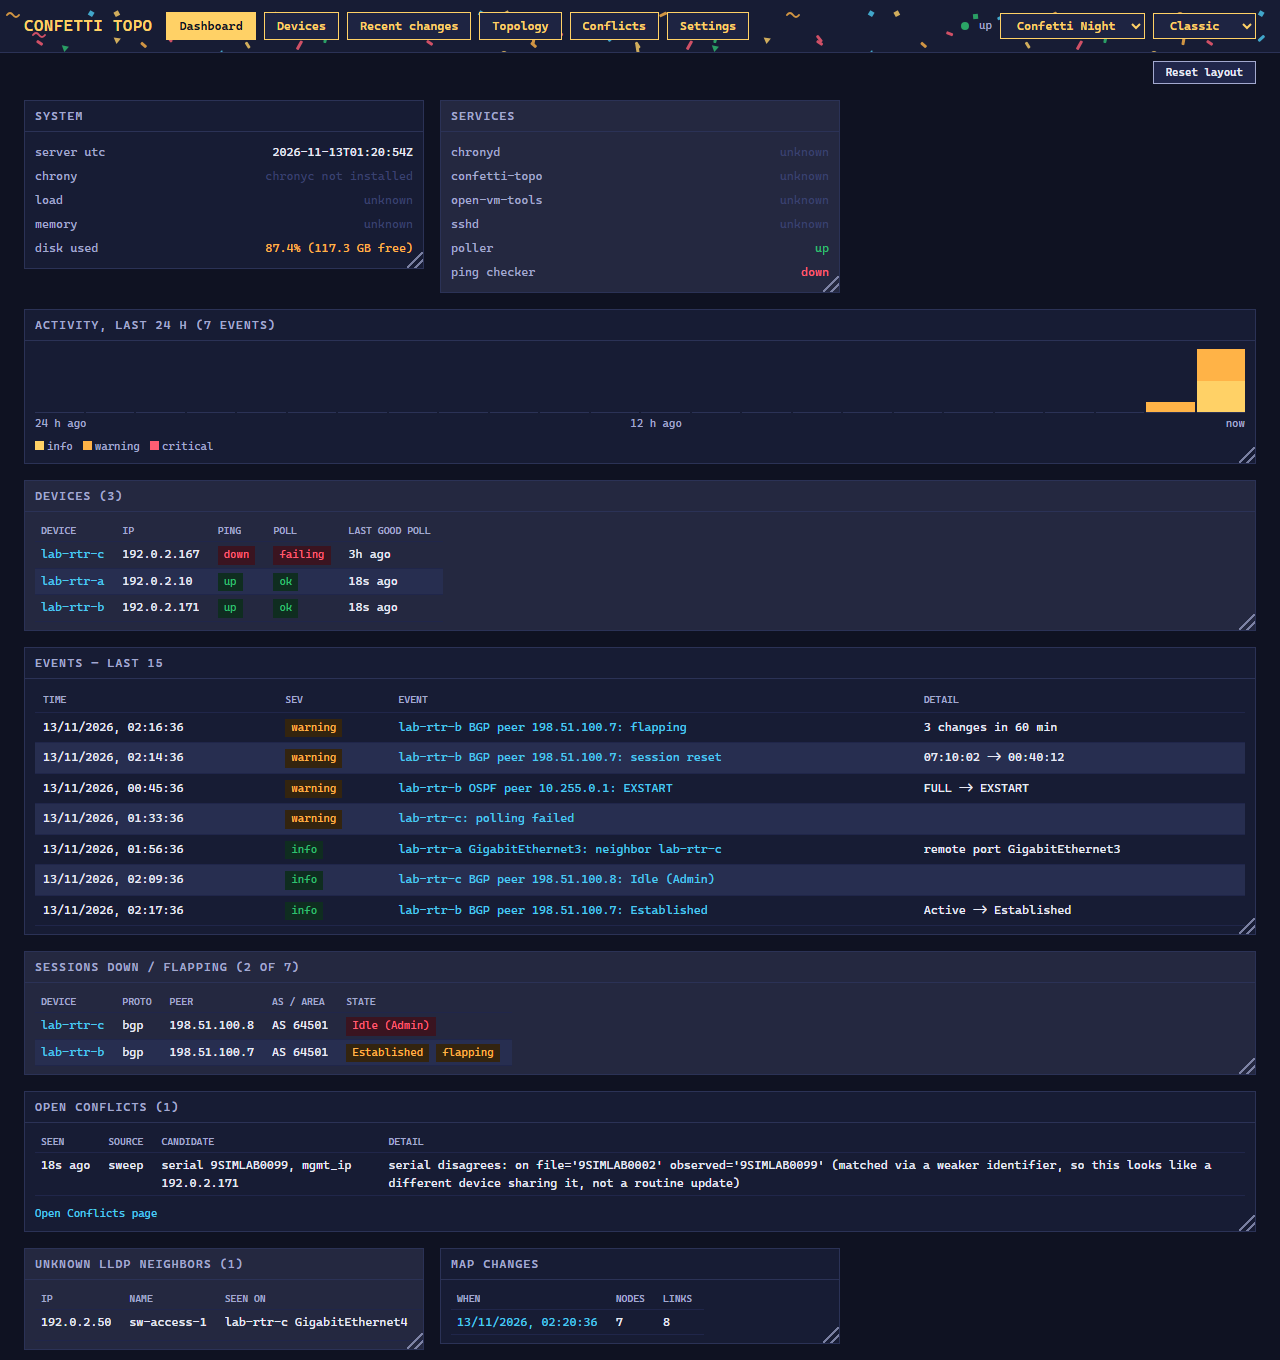
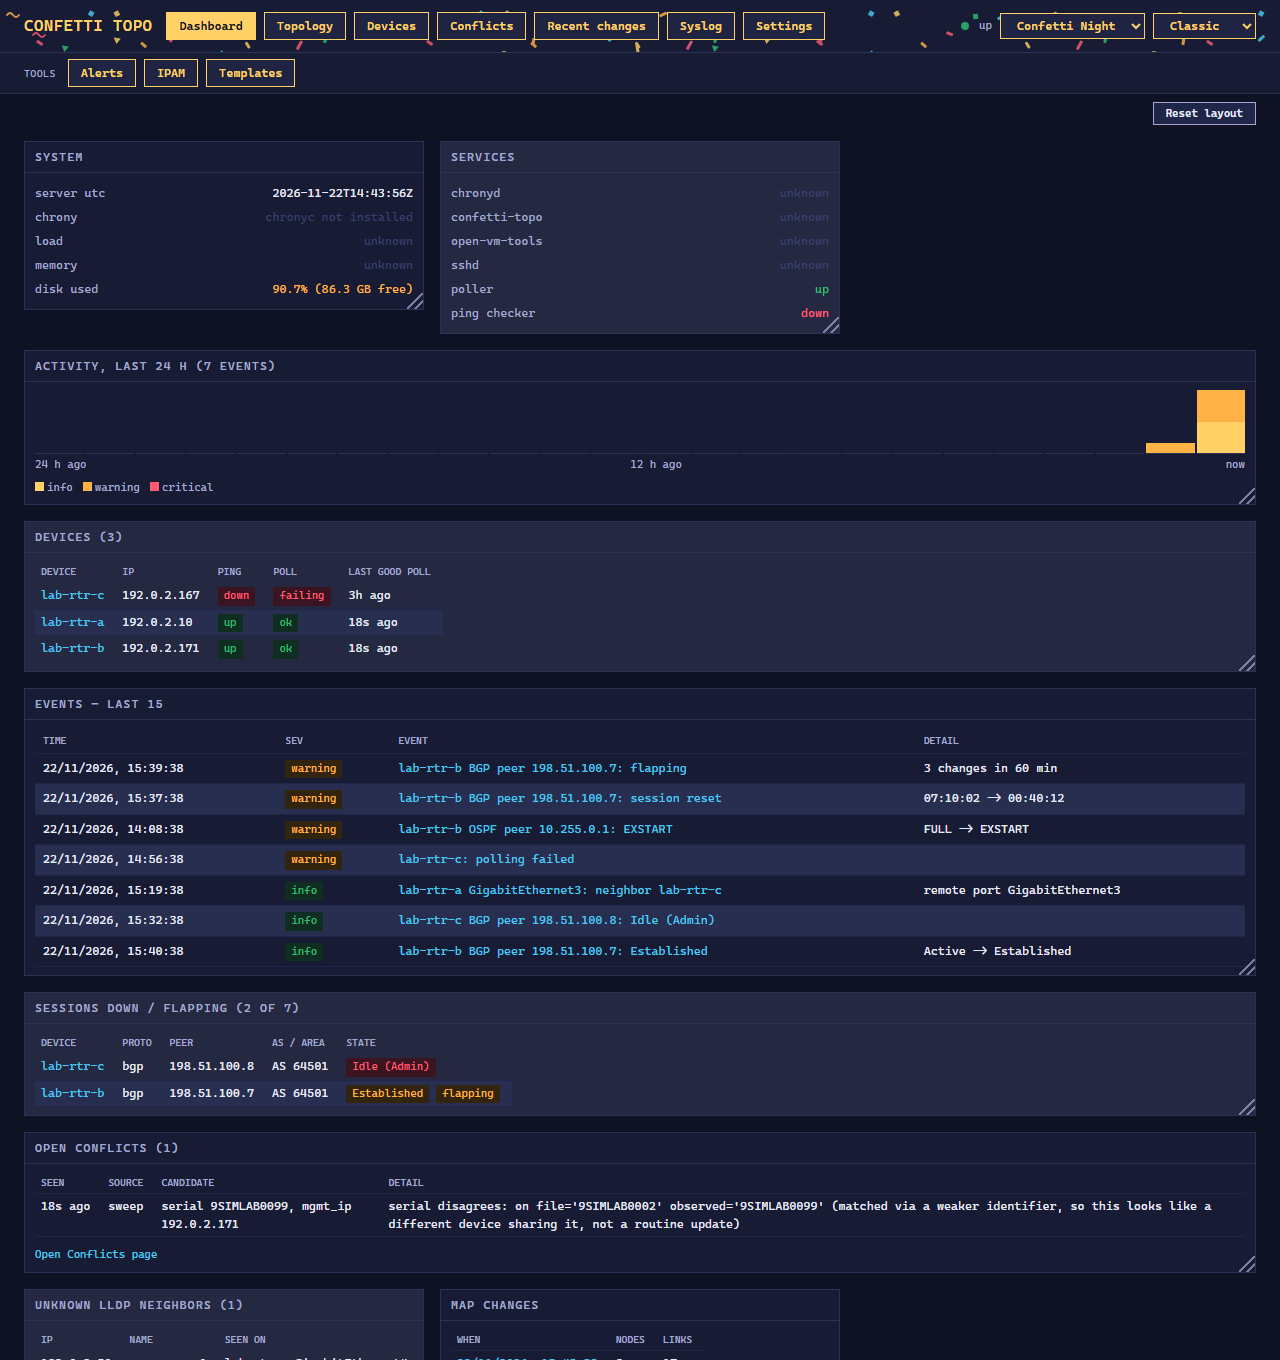
Menu order and Tools row; R51 database upgrade check; add-task skill, check-red-prover agent
- Menu: Dashboard, Topology, Devices, Conflicts, Recent changes, Syslog, Alerts, IPAM, Templates, Settings (last).
  Classic second row is now "Tools" (was "Butler"); .nav-row-butler/.butler-nav renamed.
- R51 / constraint 34: the oldest db.py in git builds an old database that init_db must upgrade in place.
- New skill confetti-topo-add-task, new agent check-red-prover; fixes to dashboard-ui-checker and confetti-topo-release.
- README images re-recorded.

diff --git a/topo/templates/base.html b/topo/templates/base.html
@@ -12,11 +12,11 @@
 </head>
 {# The page list lives here once. The current page is picked from the URL, so
    /devices/5 counts as Devices. #}
-{% set pages = [('/', 'Dashboard'), ('/devices', 'Devices'), ('/changes', 'Recent changes'), ('/syslog', 'Syslog'), ('/topology', 'Topology'), ('/conflicts', 'Conflicts'), ('/settings', 'Settings')] %}
-{# The pages that came from confetti-butler. Classic shows them on their own row under the topo row; every other
-   layout lists them with the rest (all_pages). #}
-{% set butler_pages = [('/ipam', 'IPAM'), ('/templates', 'Templates'), ('/alerts', 'Alerts')] %}
-{% set all_pages = pages + butler_pages %}
+{% set main_pages = [('/', 'Dashboard'), ('/topology', 'Topology'), ('/devices', 'Devices'), ('/conflicts', 'Conflicts'), ('/changes', 'Recent changes'), ('/syslog', 'Syslog')] %}
+{# Alerts, IPAM and Templates: Classic shows them on their own row (Tools) under the first row; every other layout lists
+   them with the rest. Settings is always last (all_pages). #}
+{% set tools_pages = [('/alerts', 'Alerts'), ('/ipam', 'IPAM'), ('/templates', 'Templates')] %}
+{% set all_pages = main_pages + tools_pages + [('/settings', 'Settings')] %}
 {% set here = '/' if request.path == '/' else '/' + request.path.strip('/').split('/')[0] %}
 <body class="{% block body_class %}{% endblock %}">
 
@@ -33,13 +33,9 @@
     <div class="header-left">
         <h1>CONFETTI TOPO</h1>
         <span class="page-title" id="page-title">{% block page_title %}{{ self.title() }}{% endblock %}</span>
-        {% for path, label in pages %}
-        {% if path == here %}<span class="btn-nav-current">{{ label }}</span>
-        {% else %}<a href="{{ path }}" class="btn-nav">{{ label }}</a>{% endif %}
-        {% endfor %}
-        {% for path, label in butler_pages %}
-        {% if path == here %}<span class="btn-nav-current butler-nav">{{ label }}</span>
-        {% else %}<a href="{{ path }}" class="btn-nav butler-nav">{{ label }}</a>{% endif %}
+        {% for path, label in all_pages %}{% set tool = (path, label) in tools_pages %}
+        {% if path == here %}<span class="btn-nav-current{% if tool %} tools-nav{% endif %}">{{ label }}</span>
+        {% else %}<a href="{{ path }}" class="btn-nav{% if tool %} tools-nav{% endif %}">{{ label }}</a>{% endif %}
         {% endfor %}
     </div>
     <div class="status">
@@ -51,10 +47,10 @@
     </div>
 </div>
 
-<!-- Classic layout only: the pages from confetti-butler on a second row. Hidden in the other layouts, which list them in the header or menu. -->
-<div class="nav-row-butler" aria-label="Butler pages">
-    <span class="nav-row-label">Butler</span>
-    {% for path, label in butler_pages %}
+<!-- Classic layout only: Alerts, IPAM and Templates on a second row. Hidden in the other layouts, which list them in the header or menu. -->
+<div class="nav-row-tools" aria-label="Tools pages">
+    <span class="nav-row-label">Tools</span>
+    {% for path, label in tools_pages %}
     {% if path == here %}<span class="btn-nav-current">{{ label }}</span>
     {% else %}<a href="{{ path }}" class="btn-nav">{{ label }}</a>{% endif %}
     {% endfor %}

diff --git a/topo/static/layout.css b/topo/static/layout.css
@@ -133,15 +133,15 @@ body.full-height .page { flex: 1 1 auto; min-height: 0; display: flex; flex-dire
 .page-footer .btn-small { margin: 0 3px; }
 .side-nav, .kpi-row, .taskbar { display: none; }
 
-/* The pages from confetti-butler: a second row under the header in Classic (no data-layout), where the header's own
+/* Alerts, IPAM and Templates: a second row under the header in Classic (no data-layout), where the header's own
    copies are hidden. Every other layout hides the row and shows them with the rest of its page buttons. */
-.nav-row-butler { display: none; }
-:root:not([data-layout]) .nav-row-butler {
+.nav-row-tools { display: none; }
+:root:not([data-layout]) .nav-row-tools {
     display: flex; align-items: center; gap: 8px; flex-wrap: wrap;
     background: var(--bg-card); border-bottom: 1px solid var(--border);
     padding: 6px 24px;
 }
-:root:not([data-layout]) .header-left .butler-nav { display: none; }
+:root:not([data-layout]) .header-left .tools-nav { display: none; }
 .nav-row-label { color: var(--text-dim); font-size: 10px; text-transform: uppercase; letter-spacing: 0.5px; margin-right: 4px; }
 
 /* Shared bits */

diff --git a/dev/regress.py b/dev/regress.py
@@ -1694,6 +1694,49 @@ def _():
     return p
 
 
+@check("R51", "an existing database upgrades in place: the oldest schema in git gets every table and column, keeps its rows, and init_db twice is harmless")
+def _():
+    p = []
+    if not shutil.which("git"):
+        raise Skip("git not found")
+    first = subprocess.run(["git", "log", "--diff-filter=A", "--format=%H", "--", "topo/app/db.py"],
+                           capture_output=True, text=True).stdout.split()
+    if not first:
+        raise Skip("no git history for topo/app/db.py")
+    old = subprocess.run(["git", "show", first[-1] + ":topo/app/db.py"], capture_output=True, text=True).stdout
+    m = re.search(r'executescript\("""(.*?)"""\)', old, re.S)
+    need(m is not None, "cannot find the CREATE script in the oldest db.py (%s)" % first[-1][:7], p)
+    if not m:
+        return p
+    mods, fresh = fresh_db()                       # the schema the current code makes
+    def schema(c):
+        out = {}
+        for (t,) in c.execute("SELECT name FROM sqlite_master WHERE type='table' AND name NOT LIKE 'sqlite_%'"):
+            out[t] = {r[1] for r in c.execute("PRAGMA table_info(%s)" % t)}
+        return out
+    want = schema(fresh)
+    fresh.close()
+    path = os.path.join(TMP, "upgrade.db")
+    old_db = sqlite3.connect(path)
+    old_db.executescript(m.group(1))
+    old_db.execute("INSERT INTO devices (key, hostname, mgmt_ip, first_seen, last_seen) VALUES ('mgmt:192.0.2.1', 'old-rtr', '192.0.2.1', '2000-01-01 00:00:00', '2000-01-01 00:00:00')")
+    old_db.commit()
+    old_db.close()
+    mods["config"].DB_PATH = path
+    mods["db"].init_db()
+    mods["db"].init_db()                           # twice: must be harmless
+    c = mods["db"].connect()
+    have = schema(c)
+    for t, cols in sorted(want.items()):
+        need(t in have, "table %s missing after the upgrade" % t, p)
+        if t in have:
+            need(cols <= have[t], "%s: columns missing after the upgrade: %s" % (t, sorted(cols - have[t])), p)
+    row = c.execute("SELECT hostname FROM devices WHERE key='mgmt:192.0.2.1'").fetchone()
+    need(row is not None and row[0] == "old-rtr", "the device row did not survive the upgrade", p)
+    c.close()
+    return p
+
+
 # ============================================================ live tier
 
 @check("R32", "routes: real-output fixtures parse, an empty table deletes nothing, one summary event per changed poll, none on baseline")

diff --git a/CLAUDE.md b/CLAUDE.md
@@ -219,9 +219,9 @@ These came over from butler on 2026-11-21 as the same code, `BUTLER_*` renamed t
 - **vCenter import** (`POST /api/discover/vcenter`, `collectors/vcenter.py`): inventory only, through `identity.ingest`. Never tested
   against a real vCenter (as in butler); it has no page, only the API.
 
-On the **Classic** layout the pages that came from butler (IPAM, Templates, Alerts) are a second row under the header
-(`.nav-row-butler` in `base.html`, shown only while no `data-layout` is set); the other layouts list them with the rest
-(`all_pages` = `pages` + `butler_pages` in `base.html`).
+Menu order (one list in `base.html`, `all_pages`): Dashboard, Topology, Devices, Conflicts, Recent changes, Syslog, Alerts, IPAM, Templates,
+Settings (last). On the **Classic** layout Alerts, IPAM and Templates are a second row labelled Tools (`.nav-row-tools`, shown only while no
+`data-layout` is set); the other layouts list them with the rest. The MS-DOS Go menu hotkeys are the positions in this list.
 
 ### Topology history
 
@@ -576,6 +576,9 @@ confetti-butler. Keep the three in step; `confetti-interop-checker` reports drif
     `config_drift` / `config_compliant` are events only on a change between the two, not on the first evaluation. Checked by R49.
 33. **Interface error history is sampled on change, and a counter reset adds nothing.** `interface_stats` gets a row when the counters change plus an
     hourly heartbeat; `ssh.growth` ignores a decrease (a reload). Checked by R50.
+34. **A deployed database upgrades in place.** `db.init_db` runs on every start over the existing file: `CREATE TABLE IF NOT EXISTS` never adds a
+    column to an existing table, so every new column needs its own `PRAGMA table_info` + `ALTER TABLE ADD COLUMN` (with a default if `NOT NULL`).
+    Nothing may drop or rewrite rows, and a second run changes nothing. Checked by R51 (the oldest `db.py` in git builds the old schema).
 
 ## Regression gate
 
@@ -588,7 +591,7 @@ container files and the BGP `Idle (Admin)` parse found on a real 15.4 router; `R
 (not Dropbear) setup; `R28` the credential order (device > Settings > env), that no GET returns a secret and
 that a bulk apply is all-or-nothing; `R29` the right-click menus (shared `static/ctxmenu.js`, quote-safe `data-*`, scripts parse); `R30` (constraint 15)
 the PAN-OS XML API: real-output fixtures, read-only `<show>` ops, secrets out of URLs, the poller's transport; `R31` (constraint 16) the optional LLDP chassis/name matching and its settings API; `R38` (constraint 23) the Default and Connected layers; `R37` (constraint 22) BGP flap detection; `R36` (constraint 21) the other Confetti projects' URLs; `R35` (constraint 20) topology history; `R34` (constraint 19) the VLAN task; `R33` (constraint 18) the optional access token; `R32` (constraint 17) the routes task: fixtures, empty table keeps rows, one event per changed poll; `R39` is the ruff `F` lint over `topo/` and `dev/` (not a constraint check); `R40` (constraint 24) the shared syslog parser and insert rule, `R40-sync` that `syslog_core.py`, `syslog_pull.py` and `syslog_cases.json` are byte-identical in the three repos (`NOT RUN` if a sibling is not next to this repo); `R41` (constraint 25) the syslog poll trigger; `R42` (constraint 26) the syslog pull; `R43`..`R50` (constraints 27..33) the checks that came with the butler merge: template sandbox, the open `/configs/` pull, config backups,
-alert matching (`R46`) and delivery (`R47`), SNMP, drift and interface error history; the next constraint (34) takes `R51`. Output is one line per check
+alert matching (`R46`) and delivery (`R47`), SNMP, drift and interface error history; `R51` (constraint 34) the in-place upgrade of an old database; the next constraint (35) takes `R52`. Output is one line per check
 and a verdict: `CLEAR`, `CLEAR WITH GAPS` (something not run) or `BLOCKED`. The unit tier imports the app, so
 it needs the app's own Python packages (else those checks are `NOT RUN`). Each check must be proven red by
 reverting its fix in a scratch copy. Adding a constraint means adding its check with the same number; the

diff --git a/.claude/skills/confetti-topo-add-task/SKILL.md b/.claude/skills/confetti-topo-add-task/SKILL.md
@@ -1,0 +1,42 @@
+---
+name: confetti-topo-add-task
+description: Add a new poll task to confetti-topo (a new show command whose output is stored, for example another switch table) - registry, parser, apply step, schema, events, API, device page, fixture, regression checks, docs. Use when asked to poll or store something new from a device. A new vendor is the add-platform skill.
+origin: confetti-topo
+---
+
+# Adding a poll task
+
+Model: the `stp` task (commit "Spanning tree summary on switches"). Read `_apply_stp` in `topo/app/collectors/ssh.py` first. Names below are
+the ones to grep for, not line numbers.
+
+1. **Real output first** (constraint 3). Capture the command from a real device into `dev/samples/<platform>_<task>.txt`, placeholders only
+   (`dev/samples/README.md`). Do not write a parser from documentation.
+2. **Registry** `topo/app/platforms.py`: the command in `IOS["commands"]`, the parser in `IOS["parsers"]`. A switch-only task also goes in
+   `SWITCH_TASKS` (the same file); then `ssh.run_tasks` skips it for a router. `ssh.TASKS` follows from the registry. PAN-OS and SNMP keep
+   their own task lists; do not add the task there unless the platform has it.
+3. **Parser** `topo/app/parsers/ios.py`, pure regex. An error text (`%`, `Invalid input`) must parse to an empty result.
+4. **Apply step** `ssh.py`: a branch in `apply_result` and a `_apply_<task>(conn, device_id, parsed, now)`.
+   - Delete rows not seen **only on a successful answer** (constraint 14). Decide what an empty parse means: a parse failure (delete nothing, as
+     `interfaces`, `vlans`, `mac`) or a real answer (clear, as `lldp`, `trunks`).
+   - `_is_cli_error` already fails a `SWITCH_TASKS` task on `%`; a task outside that list needs its own check.
+   - Events: `events.emit` inside the same transaction, never commit, and guard with `events.is_baseline(conn, device_id, "<task>")`
+     (constraint 11). Add the kind to `events.describe` (type / change / item / before / after) or the Recent changes page shows it raw.
+5. **Schema** `topo/app/db.py`: `CREATE TABLE IF NOT EXISTS` in the script, **and** an `ALTER TABLE ... ADD COLUMN` block for any column added to
+   an existing table (constraint 34, R51). A `NOT NULL` column needs a default. Give `device_id` `REFERENCES devices(id) ON DELETE CASCADE`
+   (as `stp` does): a device delete and a merge then clean it up. `identity.merge` copies only the tables in its list; poll-derived tables
+   like `stp` are not in it, and the survivor's next poll refills them. Add a table there only if it holds operator data.
+6. **API and page**: `GET /api/<name>?device_id=N` in `app/app.py` (`/api/stp` is the shape), a box on `templates/device.html` hidden until it has
+   rows. Read `confetti-topo-ui` before editing the template. If a value is shown from a secret-ish field, mask it (constraint 31 style).
+7. **Mock lab**: add rows to `topo/scripts/seed_mock_lab.py` or the new box has no data in the README images.
+8. **Regression** `dev/regress.py`:
+   - **R15** compares CLAUDE.md's "Per device, N tasks" and "All N tasks" sentences to `len(ssh.TASKS)` and wants each task name in backticks in
+     the per-device sentence. Its number-word table (`words`) stops at "twelve": a 13th task needs "thirteen" added there, or R15 fails for no
+     obvious reason.
+   - **R19** and **R34** hard-code the IOS task list and the switch-only list; extend them. R34 is the place for fixture parsing, "empty answer
+     deletes nothing" and "a `%` answer fails the task".
+   - Prove each new assertion red (agent `check-red-prover`).
+9. **Docs**: CLAUDE.md (the poller section's count and list, plus a short section like "VLANs, trunks and spanning tree"), README, the
+   `confetti-topo-api` skill (route list, task list), `docs/TOPOLOGY-MAPPING.md`, and `dev/samples/README.md` for the fixture. Then agent
+   `docs-drift-checker`.
+10. **Validate on a real device** (agent `lab-validator`); until then say "not verified on real hardware".
+11. Run the `confetti-topo-release` checklist.

diff --git a/.claude/agents/check-red-prover.md b/.claude/agents/check-red-prover.md
@@ -1,0 +1,30 @@
+---
+name: check-red-prover
+description: Prove that a new or changed dev/regress.py check really fails without its fix. Give it a check id (for example R51) and the fix, as a file list, a git diff or a commit. It copies the repo to a scratch folder, reverts the fix there, runs the check and reports RED (good), STILL GREEN (the check proves nothing) or a crash. Use after adding a constraint check, as CLAUDE.md requires. Never touches the real tree.
+tools: Read, Grep, Glob, Bash
+model: sonnet
+---
+
+CLAUDE.md: "Each check must be proven red by reverting its fix in a scratch copy." You do that, for the check(s) the caller names.
+
+## Rules
+
+- Work only in a scratch copy. Never edit, stash, checkout or reset anything in the real repo. Never commit.
+- The scratch folder is a new empty directory under the session scratchpad (or the system temp dir). Delete it when done.
+- Copy the tree without `.git` junk you do not need: `git ls-files -z --cached --others --exclude-standard | xargs -0 -I{} cp --parents {} <scratch>` or `git worktree`-free equivalents. The uncommitted fix must be in the copy, because that is what you revert. R51 needs git history: for that check copy with `git clone --no-hardlinks . <scratch>` and then copy the working-tree files over it.
+- Do not touch `topo/topo.db` or any real database. `dev/regress.py` uses its own temp databases.
+
+## Steps
+
+1. Read the check in `dev/regress.py` (`grep -n '"R<N>"'`) and its constraint in CLAUDE.md. Say in one line what it claims to guard.
+2. Baseline: in the scratch copy, `python dev/regress.py --static` (add the live tier only if the check is R20 or the caller says so). The named check must PASS. If not, stop: it is not green to begin with.
+3. Find the fix: the guard line(s) the constraint describes (for example the `if ... : return` that keeps a failed task from deleting, or an `ALTER TABLE` block). The caller may give a diff; else read the constraint text and the code it names. If you cannot tell which lines are the fix, ask the caller, do not guess.
+4. Revert it **in the scratch copy only**, as small a change as possible (remove the guard, not the whole function). Run the suite again.
+5. The named check must now FAIL for the reason the constraint states, not because the code stopped importing. If it fails with `check crashed`, a syntax error or an import error, the revert was too big or the check is fragile: say which, and retry with a smaller revert.
+   Revert means "bring back the bug the constraint describes", which is not always "delete the fix". Example: R51 stays green if you delete an `ALTER TABLE` for a column that exists nowhere else (a fresh database loses it too); it goes red when you add a column to a `CREATE TABLE` and give it no `ALTER`.
+6. If a check has several assertions (R34, R32, R51), revert one guard per assertion and report which assertions are red and which stay green.
+7. Delete the scratch copy.
+
+## Report (short)
+
+Per check: `R<N>: RED` (with the failing message in one line), `R<N>: STILL GREEN` (name the reverted line: the check does not guard it), or `R<N>: NOT PROVEN` (why). End with the lines that were reverted as `file:line`. Do not paste code.

diff --git a/.claude/skills/confetti-topo-release/SKILL.md b/.claude/skills/confetti-topo-release/SKILL.md
@@ -8,13 +8,15 @@ origin: confetti-topo
 
 1. `python dev/regress.py` (or the `regression-gate` agent). Must be CLEAR; say so if CLEAR WITH GAPS.
 2. Code change: if it fixes a silent bug, add the constraint, site comment and check (skill
-   `constraint-regression`) and prove the check red in a scratch copy.
+   `constraint-regression`) and prove the check red in a scratch copy (agent `check-red-prover`). The next
+   constraint is 35 and takes `R52`. A new task: skill `confetti-topo-add-task`. A new DB column: `ALTER TABLE` in
+   `db.init_db` (constraint 34, R51).
 3. Docs: update CLAUDE.md, README, the `confetti-topo-api` skill and HANDOFF for what changed, then run the
    `docs-drift-checker` agent. Touched themes, the pickers or the confetti-traffic import? Also run
    `confetti-interop-checker`.
 4. UI change: run `dashboard-ui-checker`, then re-record `docs/img/` with `scripts/capture_readme.py`
    (`readme-image-capturer` agent).
 5. Run the `leak-scanner` agent.
-6. Commit **only when the user asks**. There is no remote yet; do not push. The message ends with the
+6. Commit **only when the user asks**. `origin` is GitHub; push only when the user asks. The message ends with the
    attribution line from the session and names new check ids.
 7. Report in short, simple English. No large code in the reply.

diff --git a/docs/HANDOFF.md b/docs/HANDOFF.md
@@ -13,7 +13,7 @@ was not touched, and no butler database import exists (decided with the user).
 - **Schema (additive, on an existing `topo.db`):** tables `ipam_findings`, `templates`, `template_versions`, `template_vars`, `config_versions`,
   `interface_stats`, `alert_rules`; columns `devices.template_name` / `drift_status`, `credentials.snmp_community` / `snmp_version`,
   `interfaces.input_errors` / `crc_errors`, `events.alerted` (existing events are marked alerted, so nothing old is sent).
-- **Menu:** Classic shows IPAM, Templates and Alerts as a second row (`.nav-row-butler`); the other layouts list them with the rest.
+- **Menu:** Classic shows Alerts, IPAM and Templates as a second row (`.nav-row-tools`, label Tools; first named Butler, renamed 2026-11-22); the other layouts list them with the rest.
 - **Not ported:** the Packer template, `firstboot.initd`, butler's setup/update scripts (topo has its own), the butler-only agents and skills.
 - **Constraints 27..33 and checks R43..R50** are new (butler's checks, adapted); R15, R19 and R28 were extended (eleven tasks, the SNMP platform,
   SNMP credentials), and R6/R20 list the new pages. `python dev/regress.py` → `CLEAR`, 51 checks including the live tier.

diff --git a/.claude/agents/dashboard-ui-checker.md b/.claude/agents/dashboard-ui-checker.md
@@ -18,7 +18,7 @@ You check how confetti-topo's pages look and behave in a real browser, and repor
 
 ## Pages, themes, layouts
 
-Pages: `/`, `/devices`, `/devices/1`, `/changes`, `/topology`, `/conflicts`, `/settings`. On `/changes` and on the map, also try the right-click menus (shared `static/ctxmenu.js`) and `/topology?device=<id>` (selects and centres that device).
+Pages: `/`, `/devices`, `/devices/1`, `/changes`, `/topology`, `/conflicts`, `/settings`, `/syslog`, `/ipam`, `/templates`, `/alerts`. On `/changes` and on the map, also try the right-click menus (shared `static/ctxmenu.js`) and `/topology?device=<id>` (selects and centres that device).
 
 Themes: `setTheme('<name>')` in `javascript_tool`; names are in the `THEMES` list in `static/theme.js` (dark, light, monokai, contrast, terminal, confetti-night, rainbow). Layouts: `setLayout('<name>')` (classic, modern, retro95, msdos); MS-DOS has a colour variant, `setVariant('green')` or `setVariant('blue')`, which saves `confetti-topo-dos-variant`. **Both save to the browser's localStorage** (`confetti-topo-theme`, `confetti-topo-layout`, `confetti-topo-dos-variant`), the user's own choice: read them first and put them back before you finish.
 
